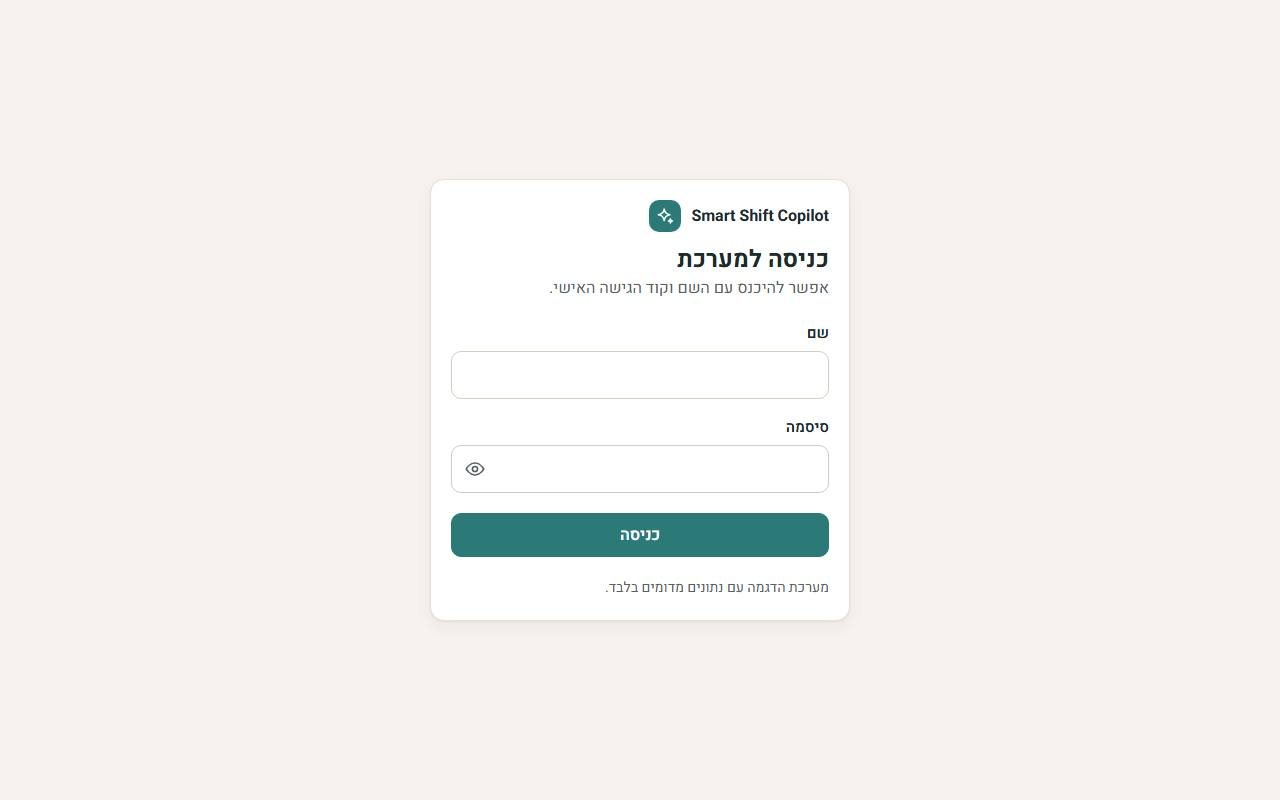
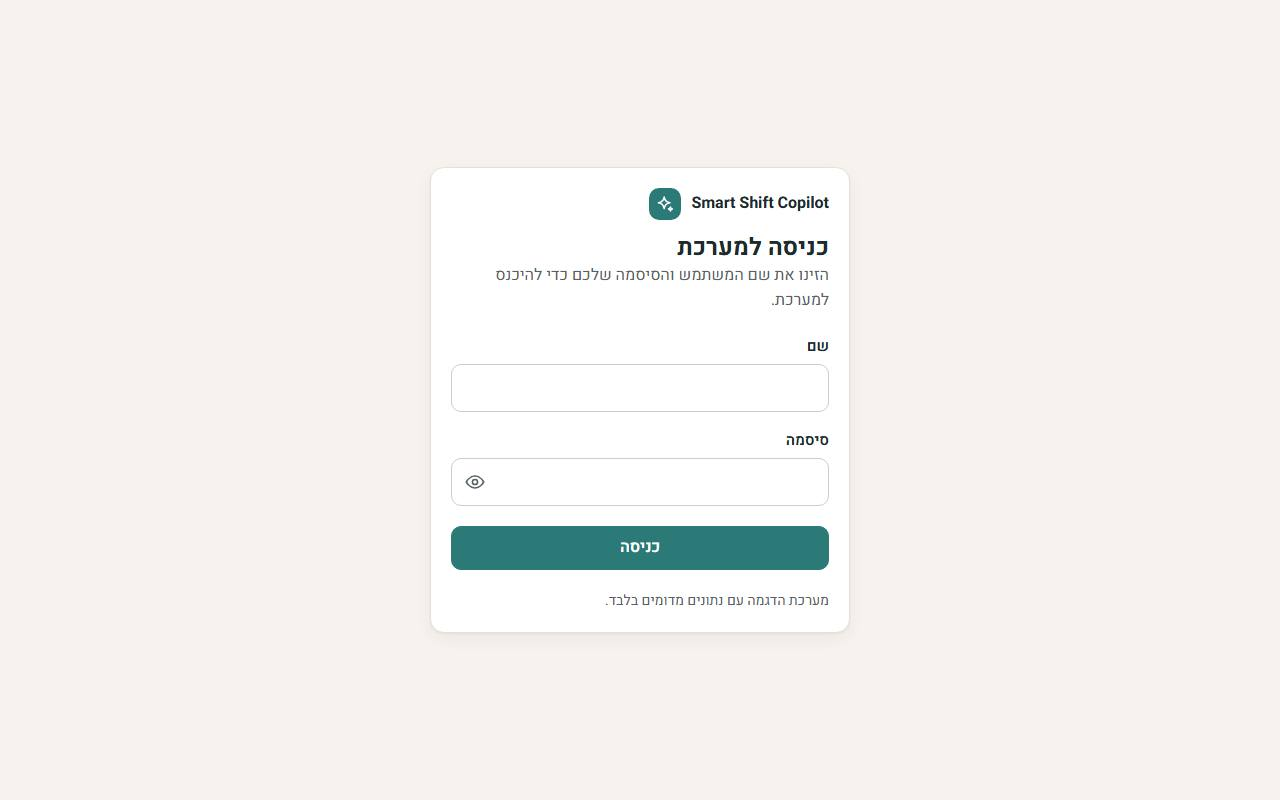
UI: user menu for employees too; new login intro sentence

diff --git a/static/app.js b/static/app.js
@@ -131,14 +131,10 @@
     renderNav();
     route();
   }
-  // The top-corner user menu (managers): who is signed in, my account, sign out. Employees keep the plain name.
+  // The top-corner user menu (both roles): who is signed in, my account, sign out.
   function setupUserMenu() {
     const btn = $("user-btn"), menu = $("user-menu");
-    const enabled = state.user.role === "manager";
     closeUserMenu(false);
-    btn.dataset.static = enabled ? "false" : "true";
-    btn.disabled = !enabled;
-    if (!enabled) { btn.removeAttribute("aria-haspopup"); btn.removeAttribute("aria-expanded"); menu.replaceChildren(); return; }
     btn.setAttribute("aria-haspopup", "menu"); btn.setAttribute("aria-expanded", "false"); btn.setAttribute("aria-controls", "user-menu");
     const item = (iconName, label, onClick, flip) => {
       const b = el("button", { class: "user-menu-item", type: "button", role: "menuitem" }, icon(iconName, flip), el("span", { text: label }));

diff --git a/static/styles.css b/static/styles.css
@@ -180,8 +180,6 @@ p { margin: 0; }
 .user-btn:hover { background: var(--accent-soft); color: var(--accent-text); }
 .user-btn:focus-visible { outline: 3px solid var(--focus); outline-offset: 2px; }
 .user-btn[aria-expanded="true"] .chevron { transform: rotate(180deg); }
-.user-btn[data-static="true"] { cursor: default; pointer-events: none; }
-.user-btn[data-static="true"] .chevron { display: none; }
 .user-menu { position: absolute; inset-block-start: calc(100% + 4px); inset-inline-end: 0; z-index: 20; min-inline-size: 13rem; max-inline-size: calc(100vw - 32px); padding: 6px;
   background: var(--surface); border: 1px solid var(--line-strong); border-radius: var(--radius); box-shadow: var(--shadow); color: var(--ink); }
 .user-menu[hidden] { display: none; }

diff --git a/static/strings.js b/static/strings.js
@@ -8,7 +8,7 @@ window.T = {
   },
   "login": {
     "title": "כניסה למערכת",
-    "intro": "אפשר להיכנס עם השם וקוד הגישה האישי.",
+    "intro": "הזינו את שם המשתמש והסיסמה שלכם כדי להיכנס למערכת.",
     "name": "שם",
     "code": "סיסמה",
     "submit": "כניסה",

diff --git a/scripts/ui_check_user_menu.py b/scripts/ui_check_user_menu.py
@@ -6,7 +6,7 @@
 Per viewport (360, 390, 768, 1280) and colour scheme it checks: the login field label is "סיסמה" and the manager hint is
 gone; the manager's top-corner name opens a menu with the name, the role, "החשבון שלי" and "התנתקות"; the menu stays inside
 the viewport and its items are at least 44 px; Escape and an outside click close it and Escape returns focus; the account
-item navigates and closes; the logout item signs out; for an employee the name is plain text with no menu.
+item navigates and closes; the logout item signs out; the employee gets the same menu (name, role "עובד/ת", account, sign out); the login intro is the new sentence.
 Reuses the browser driver of scripts/ui_check.py. Use only against a local or test instance with fictional data.
 """
 from __future__ import annotations
@@ -134,12 +134,25 @@ def main() -> int:
                 b.js("document.querySelectorAll('.user-menu-item')[1].click()", False)
                 settle(1.0)
                 check(b.js("document.getElementById('view-login').hidden === false"), f"{tag}: logout item did not return to the login screen")
-                # employee: plain name, no menu
+                # employee: the same menu, with the employee's name and role
                 login(args.employee_name, args.employee_code)
-                e = b.js("(() => { const b = document.getElementById('user-btn'); return {disabled: b.disabled, menuEmpty: document.getElementById('user-menu').children.length === 0, hidden: document.getElementById('user-menu').hidden, name: document.getElementById('appbar-name').textContent}; })()")
-                check(e["disabled"] and e["menuEmpty"] and e["hidden"], f"{tag}: employee should have no menu: {e}")
-                check(e["name"] == args.employee_name, f"{tag}: employee name shown {e['name']!r}")
-                b.shot(out / f"{vp}-{scheme}-employee.jpg")
+                click("#user-btn")
+                p = b.js(MENU_PROBE)
+                check(not p["hidden"] and p["itemLabels"] == ["החשבון שלי", "התנתקות"], f"{tag}: employee menu items {p['itemLabels']}")
+                check(args.employee_name in p["who"] and "עובד/ת" in p["who"], f"{tag}: employee who block is {p['who']!r}")
+                check(p["insideViewport"] and all(x >= 44 for x in p["itemHeights"]), f"{tag}: employee menu geometry {p['left']}..{p['right']}/{p['vw']} {p['itemHeights']}")
+                b.shot(out / f"{vp}-{scheme}-employee-menu-open.jpg")
+                key("Escape")
+                click("#user-btn")
+                b.js("document.querySelectorAll('.user-menu-item')[0].click()", False)
+                settle(0.6)
+                check(b.js(MENU_PROBE)["hash"] == "#/account", f"{tag}: employee account item did not navigate")
+                click("#user-btn")
+                b.js("document.querySelectorAll('.user-menu-item')[1].click()", False)
+                settle(1.0)
+                check(b.js("document.getElementById('view-login').hidden === false"), f"{tag}: employee logout item did not return to login")
+                intro = b.js("(document.querySelector('#view-login p') || {}).textContent || ''")
+                check("הזינו את שם המשתמש והסיסמה שלכם כדי להיכנס למערכת." in b.js("document.getElementById('view-login').innerText"), f"{tag}: login intro text is wrong")
                 errs = list(b.console)
                 b.console.clear()
                 check(not [x for x in errs if "401" not in x], f"{tag}: console errors {errs[:2]}")

diff --git a/tests/test_ui_shell.py b/tests/test_ui_shell.py
@@ -359,4 +359,4 @@ def test_manager_user_menu_markup_and_strings():
     s = _strings()["account"]
     assert (s["title"], s["logout"]) == ("החשבון שלי", "התנתקות")
     js = (STATIC / "app.js").read_text(encoding="utf-8")
-    assert 'role === "manager"' in js and "bindUserMenu()" in js and "T.role[state.user.role]" in js
+    assert "bindUserMenu()" in js and "T.role[state.user.role]" in js and 'role === "manager"' not in js.split("function setupUserMenu")[1].split("function openUserMenu")[0]  # both roles get it
